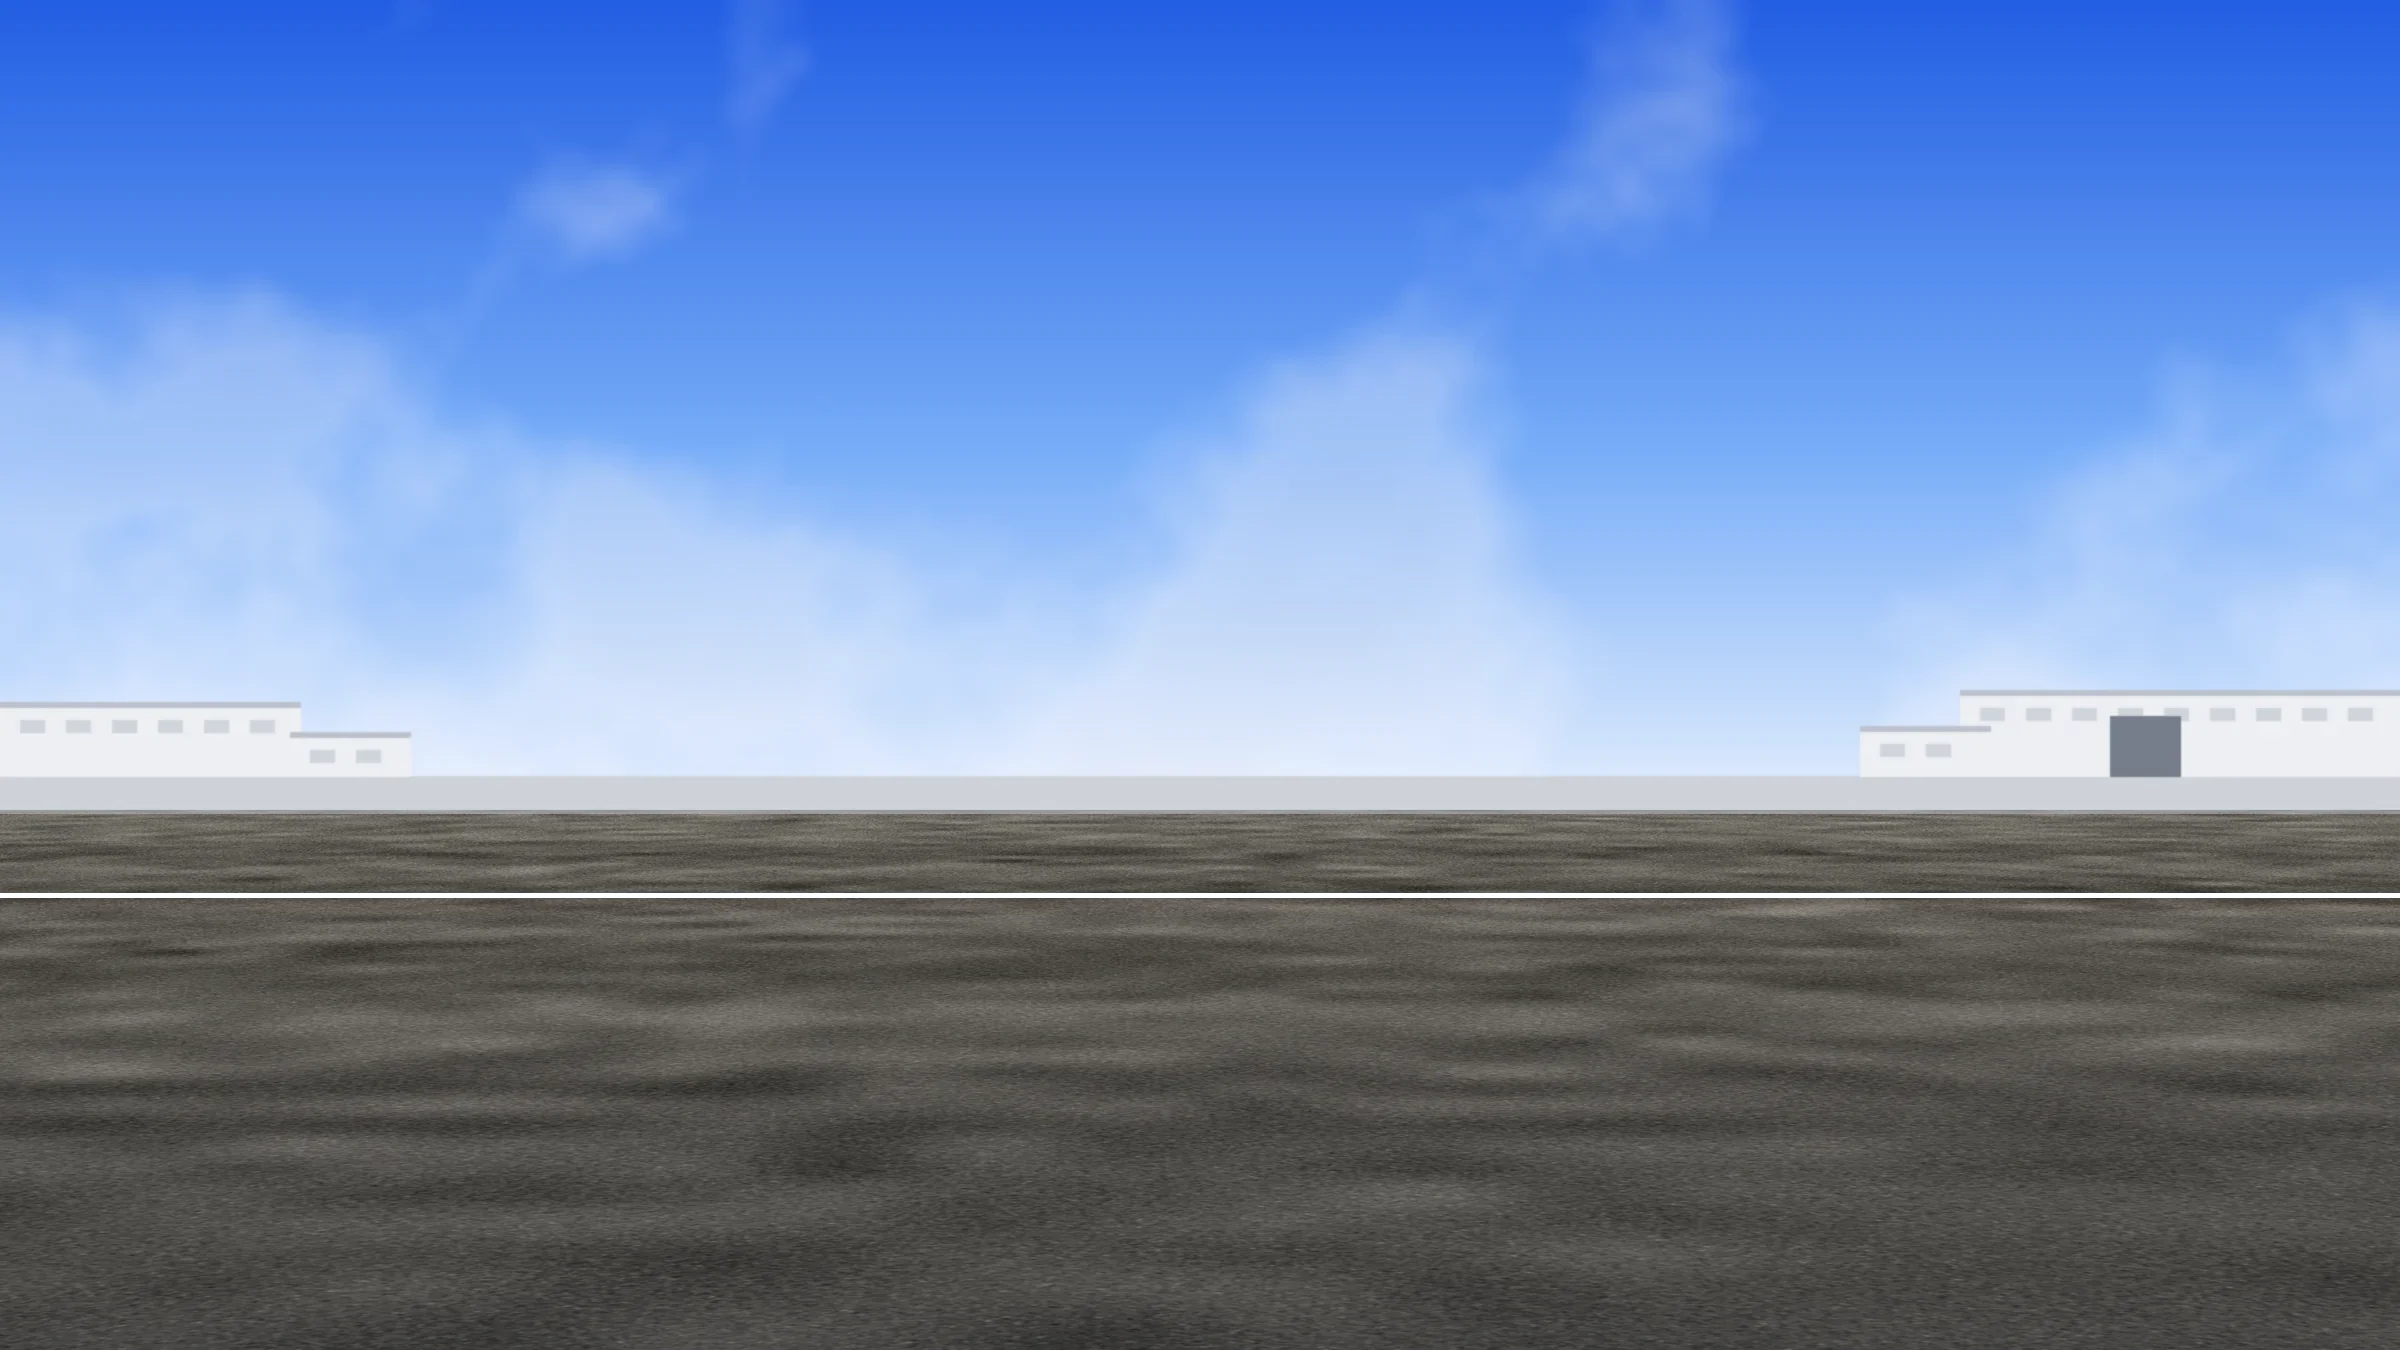
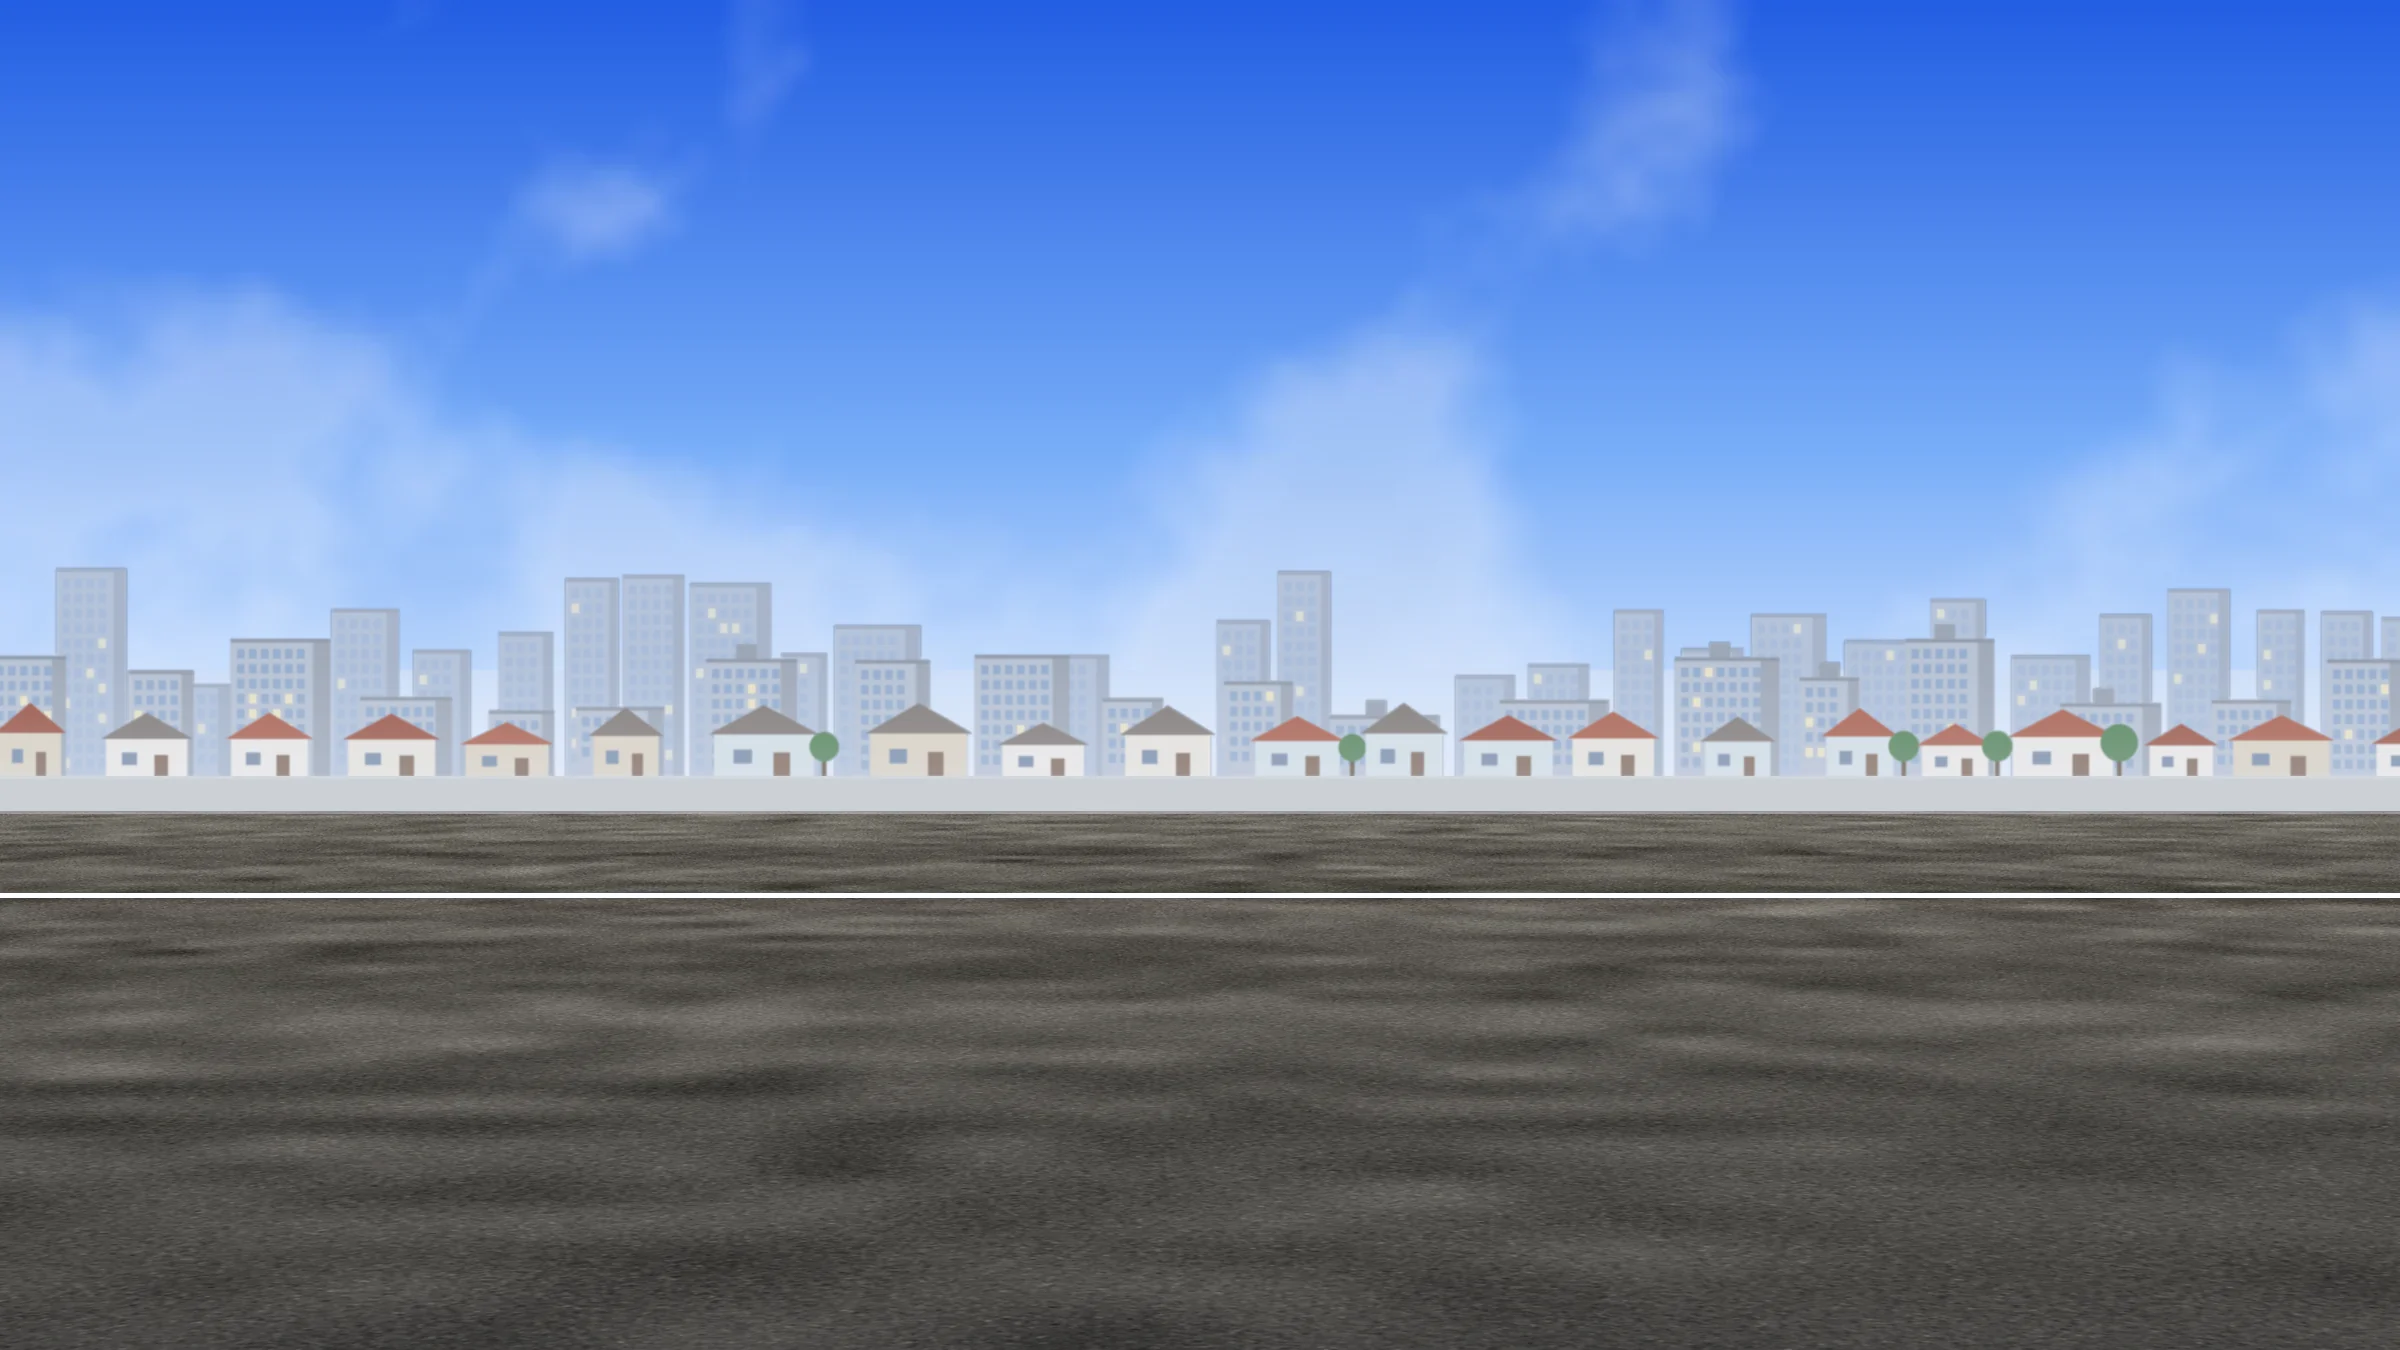
Cidade ao fundo da pista; blog no estilo editorial com notícias da Alfa e dicas para o comprador
Claude-Session: https://claude.ai/code/session_01UDsS8k2fe5HP8EGaszzLDg

Changed region(s): [[0.0, 0.4044, 1.0, 0.5911]]

diff --git a/content/blog.ts b/content/blog.ts
@@ -6,6 +6,8 @@ export type Post = {
   titulo: string;
   data: string; // AAAA-MM-DD
   categoria: string;
+  tags?: string[];
+  subtitulo?: string;
   resumo: string;
   capa: string;
   capaAlt: string;
@@ -14,7 +16,60 @@ export type Post = {
 
 export const posts: Post[] = [
   {
+    slug: "alfa-certificada-inmetro-produtos-perigosos",
+    titulo: "Alfa: fabricação certificada pelo INMETRO para produtos perigosos",
+    subtitulo: "Desde 2018, os tanques de carga da Alfa são produzidos dentro da certificação compulsória do INMETRO",
+    data: "2026-11-20",
+    categoria: "Notícias Alfa",
+    tags: ["Notícias Alfa", "INMETRO", "Produtos perigosos"],
+    resumo: "Registro nº 002462/2019, certificado pelo OCP 0135: o que essa certificação garante para quem compra um tanque de combustível Alfa.",
+    capa: "/img/fotos/combustivel06.webp",
+    capaAlt: "Caminhão-tanque de combustível da Alfa no pátio da fábrica",
+    corpo: [
+      { p: "Em 2018, a Alfa Equipamentos Rodoviários passou a atender aos requisitos para a produção de Tanques de Carga Rodoviários Destinados ao Transporte de Produtos Perigosos, conforme a certificação compulsória do INMETRO." },
+      { p: "O registro nº 002462/2019 foi concedido com certificação do OCP 0135, organismo responsável pela avaliação. Na prática, isso significa que o processo de fabricação da Alfa é avaliado: projeto, materiais, soldagem, ensaios e identificação do tanque." },
+      { h2: "O que isso muda para o cliente", lista: ["Segurança: equipamento fabricado dentro das exigências para transporte de combustíveis", "Regularidade: tanque com documentação e identificação exigidas pela fiscalização", "Confiança: fabricante avaliado por organismo de certificação"] },
+      { h2: "Atualização constante", p: "A equipe segue em busca constante de atualização e aperfeiçoamento para manter o padrão de qualidade dos serviços, acompanhando as revisões da regulamentação." },
+      { p: "Quer saber se o seu projeto se enquadra como produto perigoso? Fale com a nossa equipe técnica." },
+    ],
+  },
+  {
+    slug: "checklist-antes-de-pedir-orcamento",
+    titulo: "Checklist: o que ter em mãos antes de pedir o orçamento do seu tanque",
+    subtitulo: "Seis informações que deixam o orçamento mais rápido e o projeto mais preciso",
+    data: "2026-11-12",
+    categoria: "Dicas",
+    tags: ["Dicas", "Orçamento", "Projeto"],
+    resumo: "Produto, volume, chassi, descarga, acessórios e prazo: com essas respostas, a equipe de projeto chega ao equipamento certo já na primeira conversa.",
+    capa: "/img/fotos/tanques_agua3.webp",
+    capaAlt: "Tanque de água fabricado pela Alfa",
+    corpo: [
+      { p: "Um orçamento bem feito começa com boas informações. Quanto mais clara a operação, mais preciso é o projeto e menor a chance de ajustes depois da entrega." },
+      { h2: "Separe estas informações", lista: ["Produto: o que vai ser transportado ou armazenado (água potável, água bruta, diesel, efluente, insumo agrícola)", "Volume: capacidade desejada e se precisa de compartimentos", "Chassi: marca, modelo, ano e entre-eixos; se ainda não tiver o caminhão, dizemos o que ele precisa ter", "Descarga: gravidade, bomba, vácuo, canhão, barra de aspersão ou medidor", "Acessórios: escada, passarela, guarda-corpo, caixa de ferramentas, carretel de mangueira", "Prazo: quando o equipamento precisa estar rodando"] },
+      { h2: "Dica de ouro", p: "Se possível, envie fotos do chassi e do local onde o caminhão vai operar. Isso ajuda a prever acesso, altura de carregamento e espaço para manobra." },
+      { p: "Com essas respostas, o orçamento pode ser feito já pelo WhatsApp, direto com quem projeta e fabrica." },
+    ],
+  },
+  {
+    slug: "manutencao-preventiva-do-tanque",
+    titulo: "Manutenção preventiva: 7 cuidados que aumentam a vida útil do tanque",
+    subtitulo: "Rotinas simples que evitam vazamentos, corrosão e caminhão parado",
+    data: "2026-11-08",
+    categoria: "Dicas",
+    tags: ["Dicas", "Manutenção", "Vida útil"],
+    resumo: "Inspeção visual, vedações, fixação no chassi e pintura: um roteiro prático para o dia a dia da frota.",
+    capa: "/img/fotos/combustivel09.webp",
+    capaAlt: "Detalhe de tanque de combustível com válvulas e escada",
+    corpo: [
+      { p: "Um tanque bem fabricado dura muitos anos, desde que receba cuidados básicos. A maior parte dos problemas começa pequena e é fácil de corrigir quando percebida cedo." },
+      { h2: "O roteiro", lista: ["Inspeção visual semanal: procure manchas, umidade e sinais de vazamento em soldas, válvulas e conexões", "Vedações: troque juntas e anéis de vedação ressecados antes que comecem a vazar", "Fixação no chassi: confira parafusos, grampos e apoios; folgas aumentam o esforço sobre a estrutura", "Pintura: retoque riscos e batidas para impedir que a corrosão avance", "Válvulas: acione periodicamente as válvulas pouco usadas para evitar travamento", "Limpeza interna: siga a frequência adequada ao produto transportado", "Documentação: mantenha em dia as inspeções obrigatórias, quando aplicáveis"] },
+      { h2: "Quando chamar o fabricante", p: "Trincas, deformações, vazamentos em solda e danos após acidentes devem ser avaliados por quem conhece o projeto. Reparos improvisados podem comprometer a segurança e a certificação do equipamento." },
+      { p: "A Alfa faz manutenção e adequação dos tanques que fabrica ao longo de toda a vida útil." },
+    ],
+  },
+  {
     slug: "como-escolher-o-tanque-certo",
+    tags: ["Dicas", "Projeto"],
     titulo: "Como escolher o tanque certo para a sua operação",
     data: "2026-11-18",
     categoria: "Guia",
@@ -32,6 +87,7 @@ export const posts: Post[] = [
   },
   {
     slug: "para-que-servem-os-quebra-ondas",
+    tags: ["Técnico", "Segurança"],
     titulo: "Quebra-ondas: o que são e por que fazem diferença na estrada",
     data: "2026-11-04",
     categoria: "Técnico",
@@ -48,6 +104,7 @@ export const posts: Post[] = [
   },
   {
     slug: "inspecao-de-tanques-de-produtos-perigosos",
+    tags: ["Normas", "Produtos perigosos"],
     titulo: "Tanque para produtos perigosos: certificação e inspeções periódicas",
     data: "2026-10-21",
     categoria: "Normas",
@@ -64,6 +121,7 @@ export const posts: Post[] = [
   },
   {
     slug: "caminhao-pipa-agua-potavel",
+    tags: ["Água", "Normas"],
     titulo: "Caminhão-pipa para água potável: o que observar",
     data: "2026-10-07",
     categoria: "Água",
@@ -80,6 +138,7 @@ export const posts: Post[] = [
   },
   {
     slug: "como-funciona-o-tanque-de-saneamento",
+    tags: ["Saneamento", "Técnico"],
     titulo: "Como funciona um tanque de saneamento a vácuo",
     data: "2026-09-23",
     categoria: "Saneamento",
@@ -96,6 +155,7 @@ export const posts: Post[] = [
   },
   {
     slug: "tanque-estacionario-de-combustivel",
+    tags: ["Estacionário", "Instalação"],
     titulo: "Tanque estacionário de combustível: vantagens e cuidados na instalação",
     data: "2026-09-09",
     categoria: "Estacionário",

diff --git a/app/blog/[slug]/page.tsx b/app/blog/[slug]/page.tsx
@@ -32,37 +32,45 @@ export default async function PostPage({ params }: { params: Promise<{ slug: str
     <>
       <Reveals />
       <article>
-        <header className="hero-bg grain relative isolate overflow-hidden pt-32 text-white md:pt-40">
-          <div className="mx-auto max-w-[1000px] px-4 md:px-8">
-            <Link href="/blog/" className="ui inline-flex items-center gap-1.5 text-[11px] text-white/75 hover:text-white"><ArrowLeft className="h-4 w-4" aria-hidden /> Todos os artigos</Link>
-            <p className="mt-6 flex flex-wrap items-center gap-3 text-[13px] text-white/80">
-              <span className="ui rounded-full bg-accent px-3 py-1 text-[11px] text-ink">{p.categoria}</span>
+        <header className="relative isolate overflow-hidden text-white">
+          <Image src={p.capa} alt={p.capaAlt} fill priority sizes="100vw" className="-z-20 object-cover" />
+          <div aria-hidden="true" className="absolute inset-0 -z-10 bg-[linear-gradient(180deg,rgba(4,11,108,.55)_0%,rgba(4,11,108,.72)_55%,rgba(2,8,60,.9)_100%)]" />
+          <div className="mx-auto max-w-[1400px] px-4 pb-40 pt-32 md:px-8 md:pb-48 md:pt-40">
+            <Link href="/blog/" className="ui inline-flex items-center gap-1.5 text-[11px] text-white/80 hover:text-white"><ArrowLeft className="h-4 w-4" aria-hidden /> Todos os artigos</Link>
+            <ul className="mt-6 flex flex-wrap gap-2" aria-label="Assuntos">
+              {(p.tags ?? [p.categoria]).map((t) => <li key={t} className="rounded-full bg-primary px-4 py-1.5 text-[13px] font-semibold ring-1 ring-white/25">{t}</li>)}
+            </ul>
+            <h1 className="mt-6 max-w-5xl font-[family-name:var(--font-archivo)] text-[clamp(34px,4.6vw,64px)] font-extrabold leading-[1.05]">{p.titulo}</h1>
+            {p.subtitulo && <p className="mt-4 max-w-3xl text-[clamp(18px,1.6vw,24px)] text-white/85">{p.subtitulo}</p>}
+            <p className="mt-10 flex items-center gap-4 text-[15px] text-white/85">
               <time dateTime={p.data}>{formatData(p.data)}</time>
-              <span className="inline-flex items-center gap-1"><Clock className="h-3.5 w-3.5" aria-hidden /> {tempoLeitura(p)} min de leitura</span>
+              <span aria-hidden="true">•</span>
+              <span className="inline-flex items-center gap-1.5"><Clock className="h-4 w-4" aria-hidden /> {tempoLeitura(p)} min de leitura</span>
             </p>
-            <h1 className="display mt-5 text-[clamp(40px,6vw,88px)] leading-[0.98]">{p.titulo}</h1>
-            <p className="mt-5 max-w-2xl text-lg text-white/80">{p.resumo}</p>
-          </div>
-          <div className="mx-auto mt-12 max-w-[1100px] px-4 md:px-8">
-            <div className="relative aspect-[16/8] overflow-hidden rounded-t-[28px]">
-              <Image src={p.capa} alt={p.capaAlt} fill priority sizes="(min-width: 1100px) 1100px, 100vw" className="object-cover" />
-            </div>
           </div>
         </header>
-        <div className="bg-paper pb-20 pt-12 md:pb-28 md:pt-16">
-          <div className="mx-auto max-w-[760px] px-4 text-[18px] leading-[1.75] text-ink/85 md:px-8">
+        <div className="bg-paper pb-20 md:pb-28">
+          <div className="relative z-10 mx-auto -mt-28 max-w-[1240px] rounded-[28px] bg-white px-6 py-12 text-[18px] leading-[1.8] text-ink/80 shadow-[0_30px_80px_-40px_rgba(4,11,108,.45)] md:-mt-32 md:px-24 md:py-16">
             {p.corpo.map((b, i) => (
               <div key={i}>
                 {b.h2 && <h2 className="mt-12 font-[family-name:var(--font-archivo)] text-[clamp(24px,2.4vw,32px)] font-bold leading-tight text-ink">{b.h2}</h2>}
                 {b.p && <ScrollWordReveal text={b.p} className="mt-5" />}
                 {b.lista && (
                   <ul className="mt-5 space-y-3">
-                    {b.lista.map((l) => <li key={l} className="flex gap-3" data-reveal><span aria-hidden="true" className="mt-[0.7em] h-2 w-2 shrink-0 rounded-full bg-primary" />{l}</li>)}
+                    {b.lista.map((l) => {
+                      const i2 = l.indexOf(": ");
+                      return (
+                        <li key={l} className="flex gap-3" data-reveal>
+                          <span aria-hidden="true" className="mt-[0.75em] h-2 w-2 shrink-0 rounded-full bg-primary" />
+                          <span>{i2 > 0 && i2 < 40 ? <><strong className="font-semibold text-ink">{l.slice(0, i2)}:</strong>{l.slice(i2 + 1)}</> : l}</span>
+                        </li>
+                      );
+                    })}
                   </ul>
                 )}
               </div>
             ))}
-            <aside className="mt-14 rounded-3xl bg-primary p-8 text-white md:p-10" data-reveal>
+            <aside className="mx-auto mt-14 max-w-3xl rounded-3xl bg-primary p-8 text-white md:p-10" data-reveal>
               <p className="display text-[clamp(28px,3vw,40px)] leading-none">Tem dúvida sobre o seu tanque?</p>
               <p className="mt-3 text-white/80">Fale direto com quem projeta e fabrica.</p>
               <a href={whatsappLink(`Olá! Li o artigo "${p.titulo}" no site e tenho uma dúvida.`)} target="_blank" rel="noopener noreferrer" className="ui mt-6 inline-flex min-h-12 items-center rounded-full bg-[#25D366] px-6 text-[12px] font-extrabold text-white">Chamar no WhatsApp</a>
